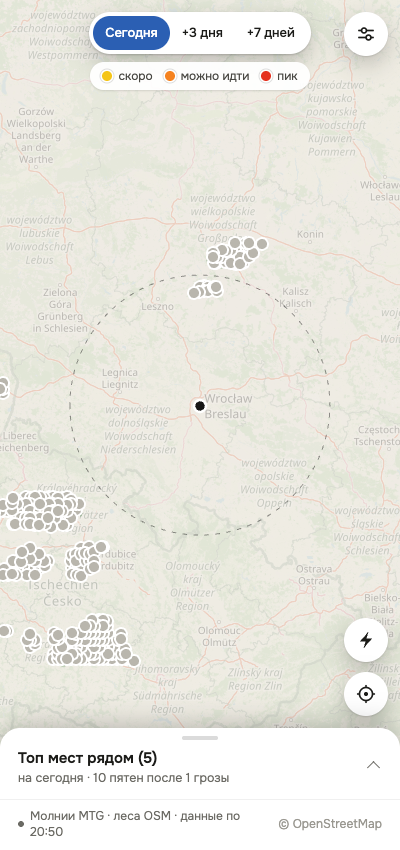
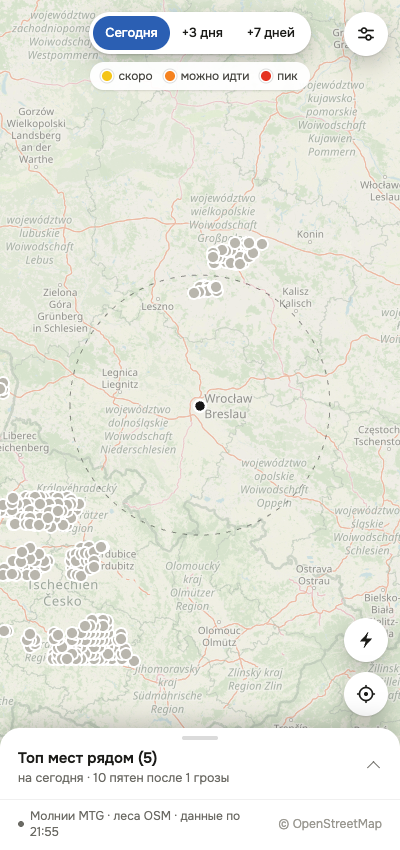
Закрашивается сам лес, а не круг поверх него
Круг пятна перекрывал лес, и было не видно, о каком массиве речь.
Теперь на карту идёт настоящий контур леса из векторных тайлов,
залитый цветом оценки; маркер остался для мелкого масштаба.

diff --git a/public/app.js b/public/app.js
@@ -106,12 +106,15 @@ function boltSvg(size) {
 
 let map, footLayer, pinLayer, strikeLayer, homeLayer, outlineLayer;
 const foots = {}, pins = {};
+const forestShapes = [];
 
 function initMap() {
   map = L.map('map', { zoomControl: false, attributionControl: false });
   L.tileLayer(TILES.url, TILES.opts).addTo(map);
+  // Лес — под пятнами, разряды — над ними: они попадают в те же места,
+  // и снизу их было бы не видно.
+  map.createPane('forest').style.zIndex = 405;
   map.createPane('spots').style.zIndex = 410;
-  // Разряды кладём над пятнами: они попадают в те же места, и снизу их было бы не видно.
   map.createPane('strikes').style.zIndex = 415;
 
   outlineLayer = L.layerGroup().addTo(map);
@@ -155,10 +158,37 @@ function spotStyle(sp) {
   };
 }
 
+/** Цвет и прозрачность залитого леса. Лес без оценки — приглушённый зелёный. */
+function forestStyle(f) {
+  const score = f.scores ? f.scores[hIndex()] : null;
+  return {
+    pane: 'forest',
+    stroke: false,
+    fill: true,
+    // Без обводки: тайлы режут большой лес на куски, и швы между ними были бы видны.
+    fillColor: score == null ? '#4C7A4C' : rampColor(score),
+    fillOpacity: state.stale ? 0.2 : score == null ? 0.3 : 0.55,
+  };
+}
+
+function drawForests() {
+  outlineLayer.clearLayers();
+  forestShapes.length = 0;
+  for (const f of state.data.forests || []) {
+    const poly = L.polygon(f.ring.map(([lon, lat]) => [lat, lon]), forestStyle(f));
+    if (f.spotId) poly.on('click', (e) => {
+      L.DomEvent.stopPropagation(e);
+      if (state.picking) setHome(e.latlng.lat, e.latlng.lng);
+      else selectSpot(f.spotId);
+    });
+    poly.addTo(outlineLayer);
+    forestShapes.push({ f, poly });
+  }
+}
+
 function drawSpots() {
   footLayer.clearLayers();
   pinLayer.clearLayers();
-  outlineLayer.clearLayers();
   for (const k of Object.keys(foots)) delete foots[k];
   for (const k of Object.keys(pins)) delete pins[k];
 
@@ -170,15 +200,6 @@ function drawSpots() {
       else selectSpot(sp.id);
     };
 
-    if (sp.outline?.length) {
-      L.polygon(sp.outline.map(([lon, lat]) => [lat, lon]), {
-        pane: 'spots', interactive: false, stroke: true, color: '#2E6B2E', weight: 1, opacity: 0.35, fill: false,
-      }).addTo(outlineLayer);
-    }
-
-    foots[sp.id] = L.circle([sp.lat, sp.lon], { radius: sp.radiusM, pane: 'spots', bubblingMouseEvents: false, ...st.foot })
-      .on('click', onClick)
-      .addTo(footLayer);
     pins[sp.id] = L.circleMarker([sp.lat, sp.lon], { pane: 'spots', bubblingMouseEvents: false, ...st.pin })
       .on('click', onClick)
       .addTo(pinLayer);
@@ -203,6 +224,7 @@ function drawSpots() {
 }
 
 function restyle() {
+  for (const { f, poly } of forestShapes) poly.setStyle(forestStyle(f));
   for (const sp of state.data.spots) {
     const st = spotStyle(sp);
     foots[sp.id]?.setStyle(st.foot);
@@ -653,6 +675,7 @@ async function boot() {
   $('homeLabel').value = state.home.label;
 
   initMap();
+  drawForests();
   drawSpots();
   drawHome();
   fitHome();

diff --git a/REPORT.md b/REPORT.md
@@ -38,6 +38,8 @@ npm start
    «гроза» покрывала бы треть региона.
 4. Оставшиеся ячейки пересекаются с контурами лесов, склеиваются в связные области и режутся на куски
    не больше ~5 км — чтобы пятно оставалось конкретным местом.
+   На карту идёт сам контур леса под грозой, закрашенный по оценке: видно не круг поверх карты,
+   а конкретный массив, который накрыло.
 5. Для центра каждого пятна запрашивается погода и считается оценка 0–100.
 
 Оценка: время с грозы (пик около девятого дня, окно 3–16 дней) × осадки в грозу (насыщение к 30 мм) ×
@@ -58,6 +60,9 @@ npm start
   контуров нет имён. «Лес у Pokój» для навигации даже полезнее, чем имя массива в 500 км².
 - **Предупреждение об охраняемых территориях.** В национальных парках и резерватах Польши сбор грибов
   запрещён — карточка говорит об этом до выезда.
+- **Закрашивается контур леса, а не круг вокруг пятна.** В макете пятно — круг, но на реальных
+  данных круг закрывал сам лес, и было непонятно, о каком массиве речь. Теперь заливается
+  настоящий контур из тайлов, а точка-маркер осталась, чтобы место было заметно на мелком масштабе.
 - **Слабейшая ступень шкалы не сохраняется в кэш кадров** — в расчёте силы она весит ноль,
   а места занимала втрое больше.
 

diff --git a/CLAUDE.md b/CLAUDE.md
@@ -20,7 +20,7 @@
 
 ## Интерфейс
 
-Один экран: карта, лес под следом грозы закрашен (красный — свежая, жёлтый — 7 дней назад; зелёный не использовать). Сверху фильтр по дням. Нажатие на лес → карточка: дата и время грозы, давность, интенсивность, осадки, «Маршрут», «Нашёл/Пусто». Снизу список гроз над лесом рядом с домом. Настройки: дом и радиус. Строка статуса с временем обновления. Mobile-first. Внешний вид — по макету Claude Design от пользователя.
+Один экран: карта, контур леса под следом грозы закрашен по оценке (не круг — сам лес) (красный — свежая, жёлтый — 7 дней назад; зелёный не использовать). Сверху фильтр по дням. Нажатие на лес → карточка: дата и время грозы, давность, интенсивность, осадки, «Маршрут», «Нашёл/Пусто». Снизу список гроз над лесом рядом с домом. Настройки: дом и радиус. Строка статуса с временем обновления. Mobile-first. Внешний вид — по макету Claude Design от пользователя.
 
 ## Порядок работ
 
